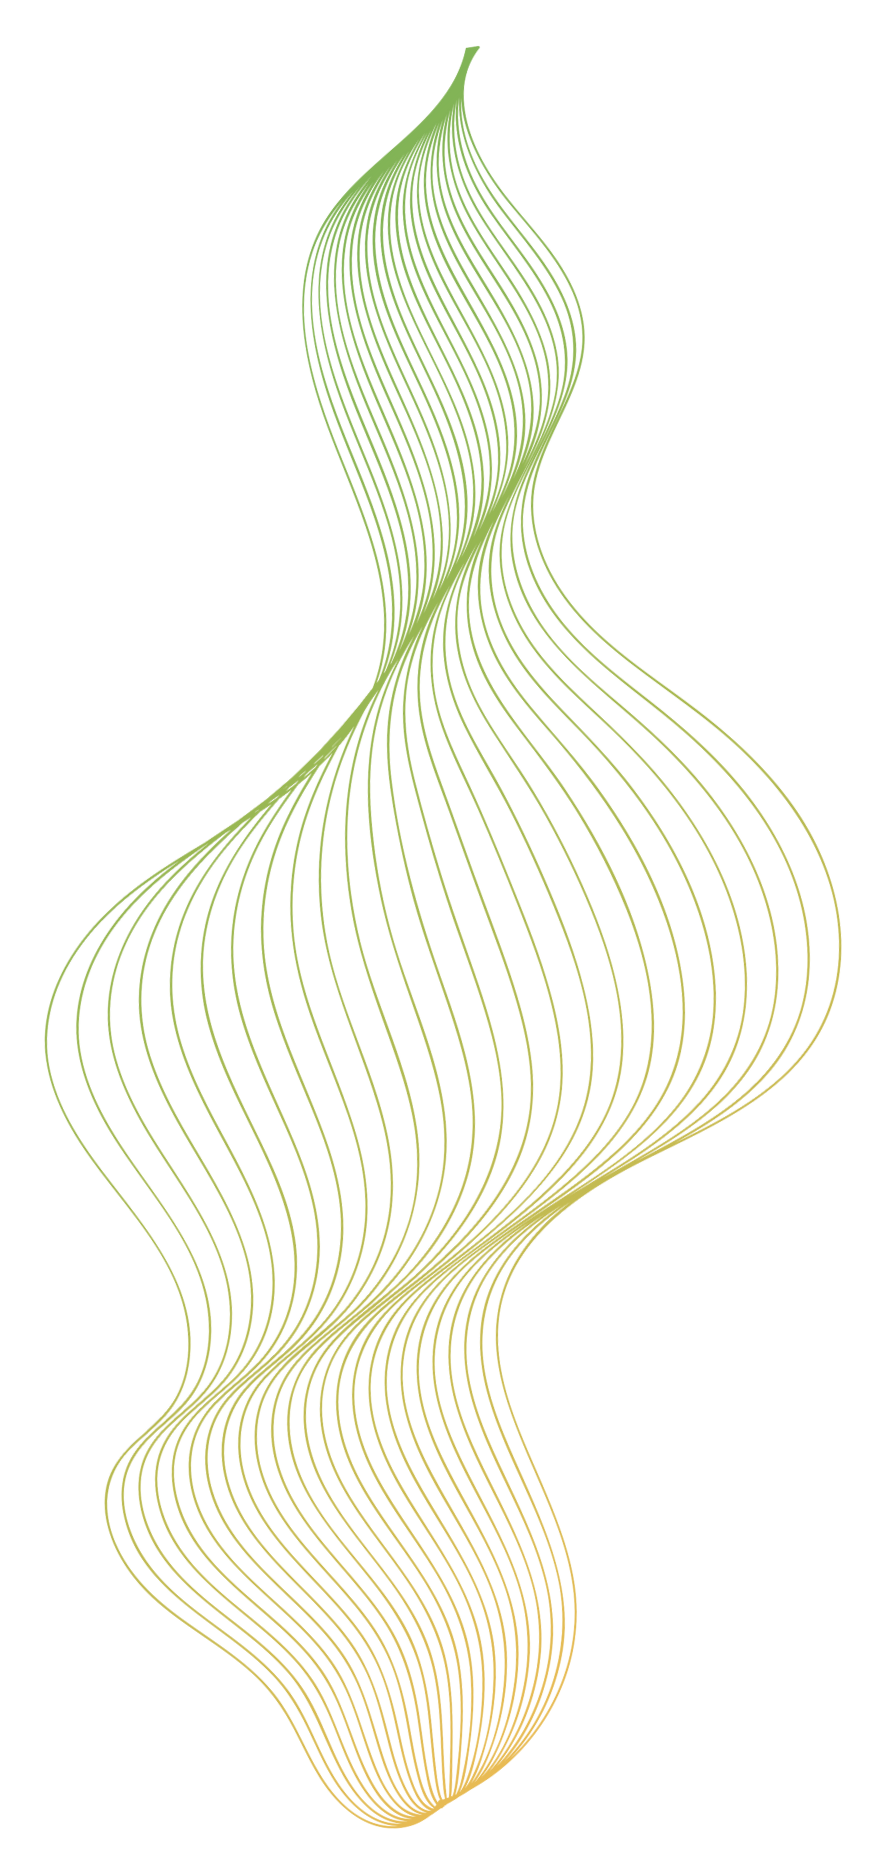
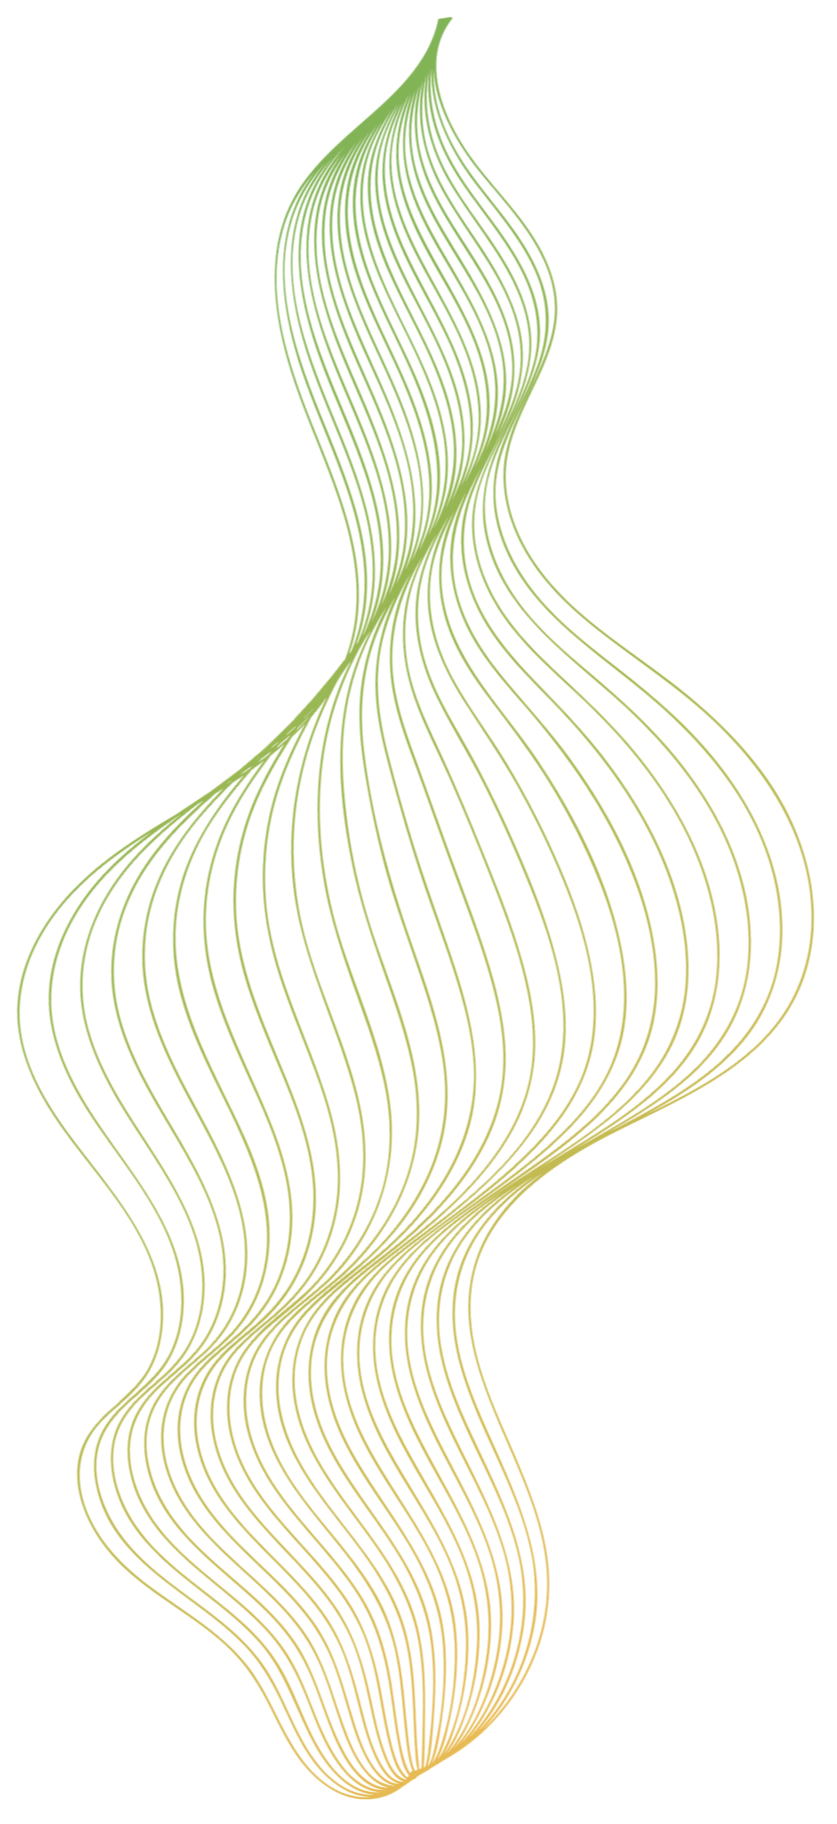
fixes

Changed region(s): [[0.0, 0.0, 0.994, 1.0]]

diff --git a/src/styles/pages/_careers.scss b/src/styles/pages/_careers.scss
@@ -1,11 +1,7 @@
 .careers {
   position: relative;
-  padding: 140px 20px 100px;
+  padding: 140px 80px 100px;
   overflow: hidden;
-
-  .title {
-    max-width: 1440px;
-  }
 
   > img {
     position: absolute;
@@ -16,7 +12,6 @@
 
   &__main {
     > p {
-      max-width: 1440px;
       margin: 0 auto;
       margin-top: 20px;
       font-size: res(16, 24);
@@ -26,19 +21,15 @@
     &--list {
       display: grid;
       justify-content: center;
-      max-width: 1440px;
-      grid-template-columns: repeat(3, minmax(100px, 300px));
+      grid-template-columns: repeat(3, minmax(100px, 1fr));
       align-items: flex-start;
       gap: 60px;
-      padding: 0 20px;
       margin-top: 60px;
-      margin-left: 40px;
     }
   }
 
   &__contact {
     max-width: 1440px;
-    margin: 0 auto;
     margin-top: 300px;
 
     h4 {
@@ -60,6 +51,7 @@
         font-size: res(14, 20);
         max-width: 1000px;
         line-height: 1.3;
+        color: rgba(255, 255, 255, 0.7);
       }
     }
 
@@ -87,7 +79,7 @@
 
     &__main {
       &--list {
-        grid-template-columns: repeat(2, minmax(100px, 300px));
+        grid-template-columns: repeat(2, minmax(100px, 1fr));
       }
     }
   }
@@ -108,7 +100,7 @@
     }
     &__main {
       &--list {
-        grid-template-columns: minmax(100px, 300px);
+        grid-template-columns: minmax(100px, 1fr);
         margin-left: 0;
         padding: 0;
       }

diff --git a/src/styles/pages/_services.scss b/src/styles/pages/_services.scss
@@ -1,6 +1,6 @@
 .services {
   position: relative;
-  padding: 140px 20px 100px;
+  padding: 140px 80px 100px;
   overflow: hidden;
 
   .blur-circle {
@@ -24,10 +24,6 @@
     }
   }
 
-  .title {
-    max-width: 1440px;
-  }
-
   > img {
     position: absolute;
     right: -400px;
@@ -36,7 +32,6 @@
   }
 
   > p {
-    max-width: 1440px;
     margin: 0 auto;
     margin-top: 20px;
     font-size: res(16, 24);
@@ -48,10 +43,9 @@
     margin-top: 65px;
     display: grid;
     justify-content: center;
-    grid-template-columns: repeat(4, minmax(100px, 300px));
+    grid-template-columns: repeat(4, minmax(100px, 1fr));
     align-items: flex-start;
     gap: 60px;
-    padding: 0 20px;
 
     &--first {
       margin-bottom: 300px;
@@ -106,7 +100,7 @@
 
   @media screen and (max-width: 1400px) {
     &__list {
-      grid-template-columns: repeat(3, minmax(100px, 300px));
+      grid-template-columns: repeat(3, minmax(100px, 1fr));
     }
   }
 
@@ -114,7 +108,7 @@
     padding-bottom: 80px;
 
     &__list {
-      grid-template-columns: repeat(2, minmax(100px, 300px));
+      grid-template-columns: repeat(2, minmax(100px, 1fr));
     }
 
     &__about {

diff --git a/src/styles/pages/_about-us.scss b/src/styles/pages/_about-us.scss
@@ -22,13 +22,13 @@
   }
 
   &__list {
+    margin: 0 auto;
     margin-top: 65px;
     display: grid;
     justify-content: center;
-    grid-template-columns: repeat(3, minmax(150px, 300px));
+    grid-template-columns: repeat(3, minmax(150px, 1fr));
     align-items: flex-start;
     gap: 80px;
-    padding: 0 20px;
 
     &--first {
       margin-bottom: 300px;
@@ -37,7 +37,7 @@
 
   > img {
     position: absolute;
-    right: -500px;
+    right: -400px;
     top: 0;
     z-index: -1;
   }
@@ -45,7 +45,7 @@
   @include tablet {
     padding-bottom: 140px;
     &__list {
-      grid-template-columns: repeat(2, minmax(150px, 300px));
+      grid-template-columns: repeat(2, minmax(150px, 1fr));
       &--first {
         margin-bottom: 100px;
       }

diff --git a/src/components/pages/Services/index.tsx b/src/components/pages/Services/index.tsx
@@ -37,7 +37,7 @@ const ServicesComponent: FC = () => {
       <div className="blur-circle blur-circle--12" />
       <div className="blur-circle blur-circle--13" />
       <div className="blur-circle blur-circle--14" />
-      <Image src="/spiral-green.png" alt="About Us" width={811} height={1824} />
+      <Image src="/spiral-green.png" alt="About Us" width={837} height={1824} />
       <Title
         title="services"
         text="we offer a wide range of IT services, From custom development to cloud solutions, our team of experienced software developers, project managers, and user experience experts is dedicated to delivering IT solutions tailored to meet your business needs "

diff --git a/src/styles/shared/_services-main.scss b/src/styles/shared/_services-main.scss
@@ -38,11 +38,13 @@
     line-height: 1.8;
     font-family: var(--font-interphases);
     padding: 0 res(15, 190);
+    color: rgba(255, 255, 255, 0.7);
   }
 
   &__services {
     display: grid;
     grid-template-columns: repeat(3, minmax(120px, 310px));
+    justify-content: center;
     padding: 0 res(15, 190);
     padding-bottom: 50px;
     margin-top: 35px;
@@ -143,6 +145,7 @@
       font-size: res(16, 22);
       line-height: 1.7;
       margin-bottom: 40px;
+      color: rgba(255, 255, 255, 0.7);
     }
 
     a {

diff --git a/src/app/about-us/page.tsx b/src/app/about-us/page.tsx
@@ -49,7 +49,7 @@ const AboutUs = () => {
       <div className="blur-circle blur-circle--8" />
       <div className="blur-circle blur-circle--9" />
       <div className="blur-circle blur-circle--10" />
-      <Image src="/spiral-pink.png" alt="About Us" width={811} height={1824} />
+      <Image src="/spiral-pink.png" alt="About Us" width={837} height={1824} />
       <Title
         title="about us"
         text="At LeQuarius, we specialize in delivering innovative IT solutions,

diff --git a/src/styles/shared/_about-us-main.scss b/src/styles/shared/_about-us-main.scss
@@ -84,16 +84,16 @@
       text-align: left;
       line-height: 1.3;
       letter-spacing: 6px;
-      margin-bottom: 50px;
+      margin-bottom: 22px;
     }
 
     p {
       font-family: var(--font-interphases);
       font-size: res(14, 25);
       line-height: 1.3;
-      color: #fff;
       max-width: 420px;
       margin-bottom: 20px;
+      color: rgba(255, 255, 255, 0.7);
     }
 
     video {

diff --git a/src/components/pages/Careers/index.tsx b/src/components/pages/Careers/index.tsx
@@ -34,7 +34,7 @@ const CareersComponent: FC = () => {
 
   return (
     <section className="careers">
-      <Image src="/spiral-red.png" alt="Careers" width={875} height={1855} />
+      <Image src="/spiral-red.png" alt="Careers" width={837} height={1824} />
       <div className="careers__main">
         <Title
           title="CAREERS"

diff --git a/src/styles/shared/_info-block.scss b/src/styles/shared/_info-block.scss
@@ -13,7 +13,7 @@
   }
 
   h4 {
-    font-size: res(14, 18);
+    font-size: res(14, 21);
     color: #d73cbe;
   }
 
@@ -21,6 +21,7 @@
     font-family: var(--font-interphases);
     font-size: res(12, 16);
     line-height: 1.3;
+    color: rgba(255, 255, 255, 0.7);
   }
 
   @include mobile {

diff --git a/src/styles/shared/_title.scss b/src/styles/shared/_title.scss
@@ -1,6 +1,6 @@
 .title {
-  max-width: 1110px;
   margin: 0 auto;
+
   h1 {
     font-size: res(28, 60);
     font-weight: 600;
@@ -9,7 +9,6 @@
 
   p {
     font-size: res(14, 22);
-    max-width: 1200px;
     font-weight: 600;
     color: #01cabd;
     letter-spacing: 2px;

diff --git a/src/styles/shared/_header.scss b/src/styles/shared/_header.scss
@@ -3,7 +3,7 @@
   top: 0;
   z-index: 1;
   width: 100%;
-  padding: 18px 0;
+  padding: 5px 0;
   padding-left: res(15, 80);
   padding-right: 15px;
   background: linear-gradient(90deg, #6564ee, #3b2bc2);
